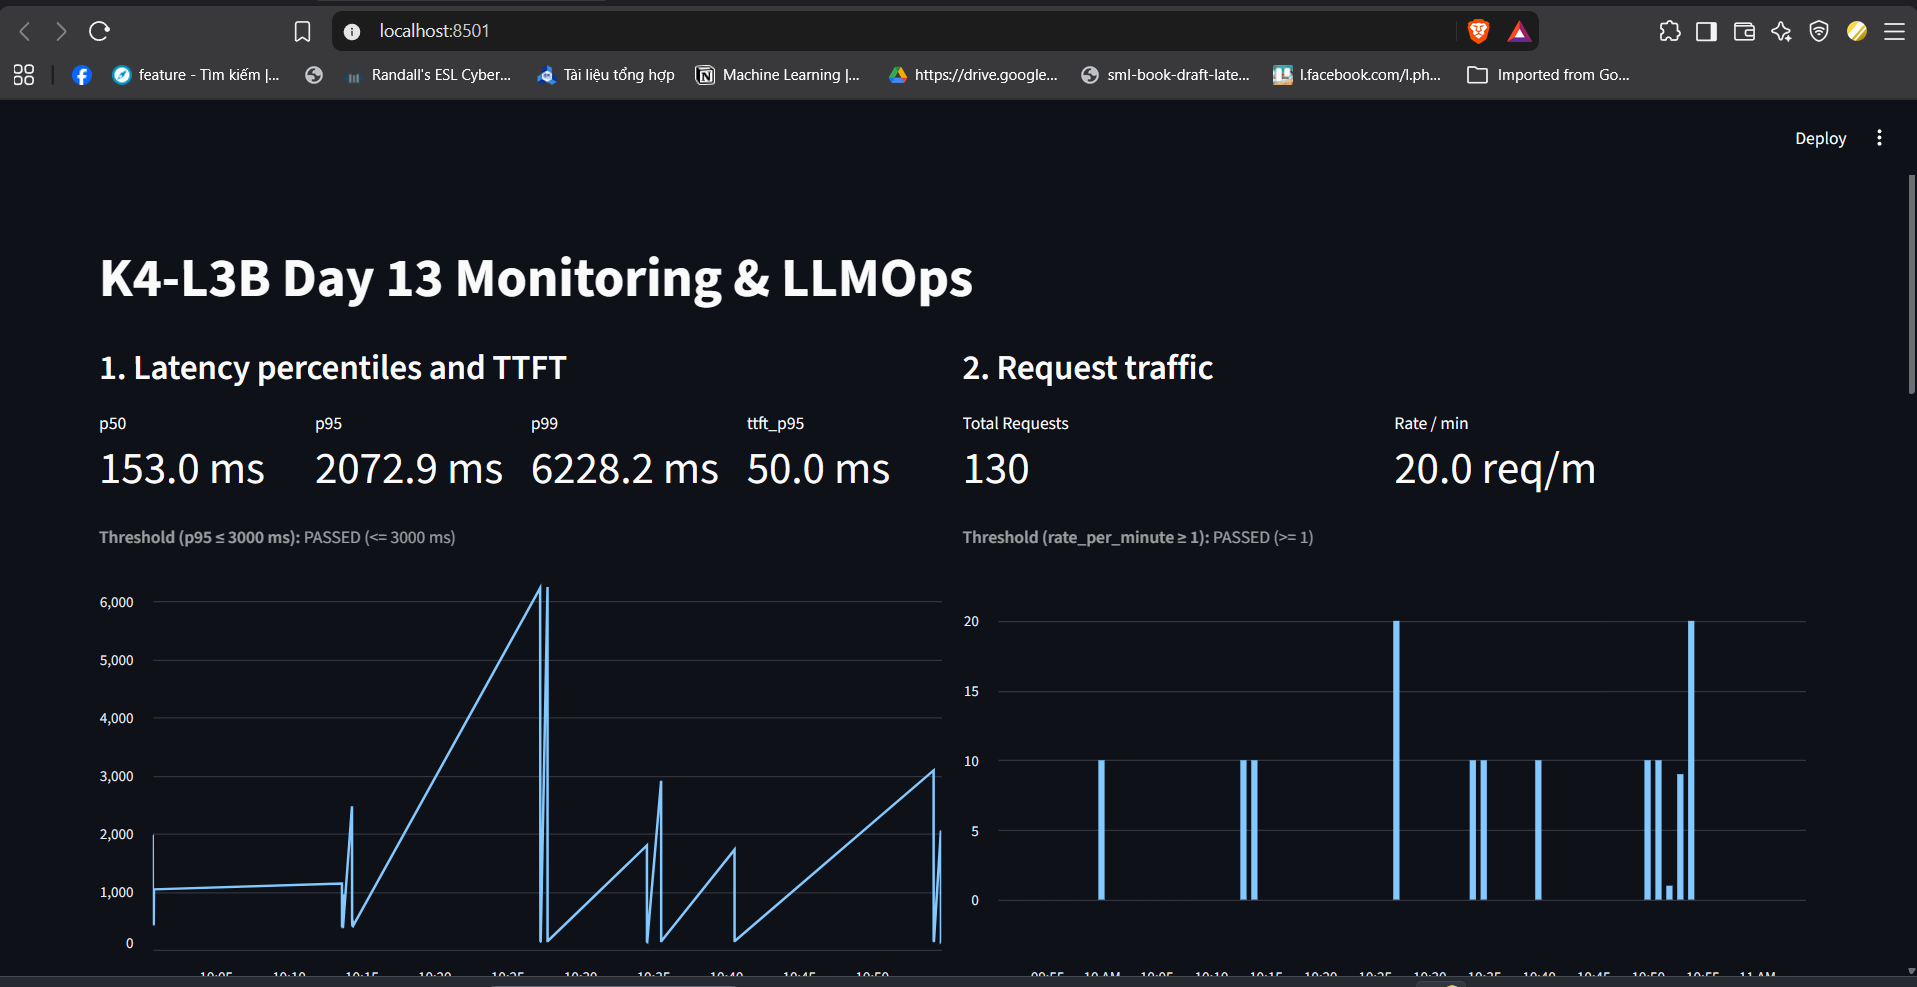
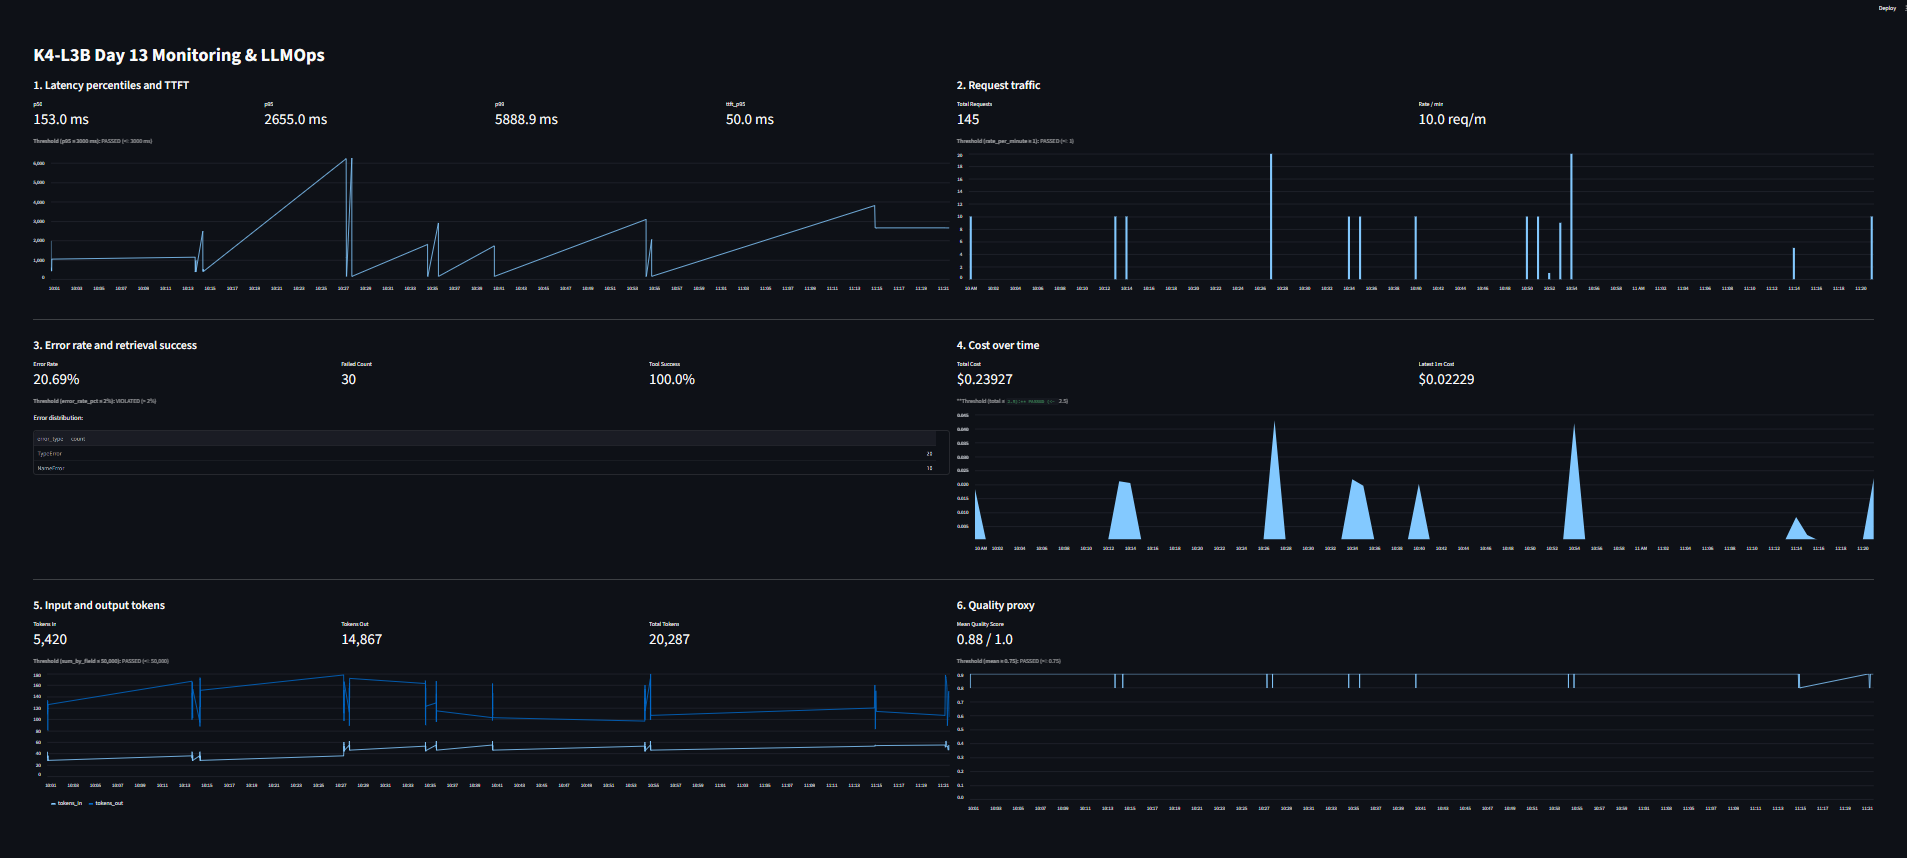
image 11

diff --git a/submission/REPORT.md b/submission/REPORT.md
@@ -8,7 +8,7 @@
 - **MSSV:** 2A202602412
 - **Lớp:** K4-L3B
 - **Repository URL:** https://github.com/Hung23020370/K4-L3-DAY13-DongManhHung-2A202602412-Monitoring-LLMOps
-- **Commit SHA cuối:** 1617ee4
+- **Commit SHA cuối:** 3af5091
 - **Challenge ID:** day13-k4-l3b-monitoring-llmops-v1
 - **Tên project Langfuse cá nhân:** `day13-k4-l3b-2A202602412`
 
